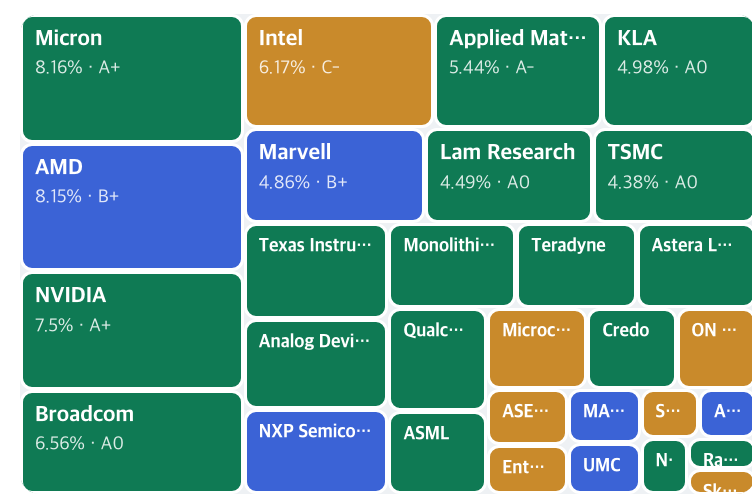
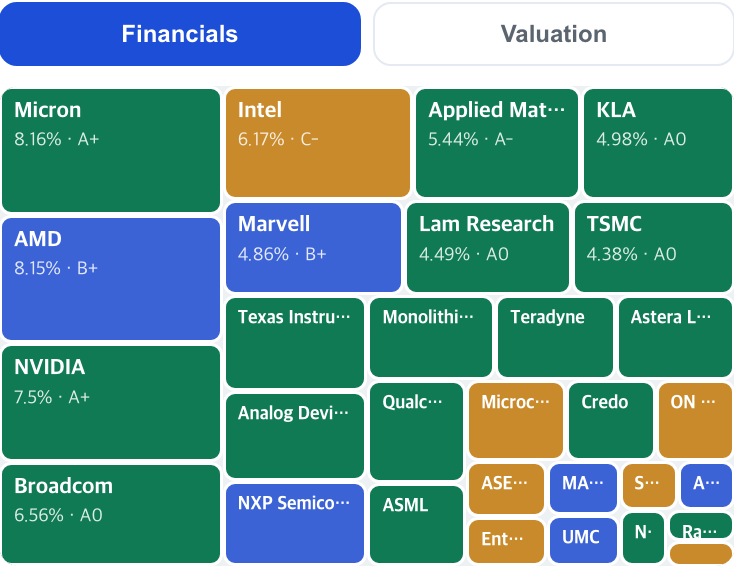
Centre the third image, fill the width, drop clipped tile labels
Three things the previous pass got wrong.

The full-pipeline treemap was cropped at x=112 when the page container measured
x=70, so it was off-centre in the direction opposite the other two. All three
crops now come from decoded pixel bounds rather than CSS arithmetic, and all
three fill their frame edge to edge.

All three now render at 100% width instead of 52%.

And the treemap kept showing a half-cut ticker on its smallest tile. That was
not the crop: a tile shorter than one line of text still rendered a label and
clipped it, which reads as a broken image. Both renderers now gate the label on
tile height rather than area — the clipping is vertical — so a tile too short
carries colour and area only. Skyworks at 5.09% height loses its label; Rambus
at 6.60% keeps it.

Claude-Session: https://claude.ai/code/session_01RnFF3deu9CNZQny2KjCfMg

diff --git a/examples/full/etf_SOXX.html b/examples/full/etf_SOXX.html
@@ -55,7 +55,7 @@
       <button id="hm-tab-fin" onclick="hmMode('fin')" style="flex:1;padding:8px 0;border-radius:9px;border:1px solid #1D4ED8;background:#1D4ED8;color:#fff;font-size:12px;font-weight:800;cursor:pointer;">Financials</button>
       <button id="hm-tab-val" onclick="hmMode('val')" style="flex:1;padding:8px 0;border-radius:9px;border:1px solid #E4E9F2;background:#fff;color:#5B6570;font-size:12px;font-weight:800;cursor:pointer;">Valuation</button>
     </div>
-    <div id="hm-map" style="position:relative;width:100%;height:240px;border-radius:10px;overflow:hidden;background:#EEF1F4;"><div class="hm-tile" data-i="0" data-name="Micron" data-w="8.16" data-fin="A+" data-val="B0" data-finbg="#0F7A54" data-fintx="#fff" data-valbg="#3B63D6" data-valtx="#fff" style="position:absolute;left:0.00%;top:0.00%;width:30.41%;height:26.87%;background:#0F7A54;color:#fff;padding:5px 6px;border:1.5px solid #fff;border-radius:6px;overflow:hidden;cursor:pointer;"><div style="font-size:11px;font-weight:800;line-height:1.2;overflow:hidden;text-overflow:ellipsis;white-space:nowrap;">Micron</div><div style="font-size:9.5px;opacity:.85;margin-top:2px;">8.16% · <span class="hm-g" data-i="0">A+</span></div></div><div class="hm-tile" data-i="1" data-name="AMD" data-w="8.15" data-fin="B+" data-val="C-" data-finbg="#3B63D6" data-fintx="#fff" data-valbg="#C98A2B" data-valtx="#fff" style="position:absolute;left:0.00%;top:26.87%;width:30.41%;height:26.84%;background:#3B63D6;color:#fff;padding:5px 6px;border:1.5px solid #fff;border-radius:6px;overflow:hidden;cursor:pointer;"><div style="font-size:11px;font-weight:800;line-height:1.2;overflow:hidden;text-overflow:ellipsis;white-space:nowrap;">AMD</div><div style="font-size:9.5px;opacity:.85;margin-top:2px;">8.15% · <span class="hm-g" data-i="1">B+</span></div></div><div class="hm-tile" data-i="2" data-name="NVIDIA" data-w="7.5" data-fin="A+" data-val="B0" data-finbg="#0F7A54" data-fintx="#fff" data-valbg="#3B63D6" data-valtx="#fff" style="position:absolute;left:0.00%;top:53.70%;width:30.41%;height:24.70%;background:#0F7A54;color:#fff;padding:5px 6px;border:1.5px solid #fff;border-radius:6px;overflow:hidden;cursor:pointer;"><div style="font-size:11px;font-weight:800;line-height:1.2;overflow:hidden;text-overflow:ellipsis;white-space:nowrap;">NVIDIA</div><div style="font-size:9.5px;opacity:.85;margin-top:2px;">7.5% · <span class="hm-g" data-i="2">A+</span></div></div><div class="hm-tile" data-i="3" data-name="Broadcom" data-w="6.56" data-fin="A0" data-val="B-" data-finbg="#0F7A54" data-fintx="#fff" data-valbg="#3B63D6" data-valtx="#fff" style="position:absolute;left:0.00%;top:78.40%;width:30.41%;height:21.60%;background:#0F7A54;color:#fff;padding:5px 6px;border:1.5px solid #fff;border-radius:6px;overflow:hidden;cursor:pointer;"><div style="font-size:11px;font-weight:800;line-height:1.2;overflow:hidden;text-overflow:ellipsis;white-space:nowrap;">Broadcom</div><div style="font-size:9.5px;opacity:.85;margin-top:2px;">6.56% · <span class="hm-g" data-i="3">A0</span></div></div><div class="hm-tile" data-i="4" data-name="Intel" data-w="6.17" data-fin="C-" data-val="C0" data-finbg="#C98A2B" data-fintx="#fff" data-valbg="#C98A2B" data-valtx="#fff" style="position:absolute;left:30.41%;top:0.00%;width:25.88%;height:23.87%;background:#C98A2B;color:#fff;padding:5px 6px;border:1.5px solid #fff;border-radius:6px;overflow:hidden;cursor:pointer;"><div style="font-size:11px;font-weight:800;line-height:1.2;overflow:hidden;text-overflow:ellipsis;white-space:nowrap;">Intel</div><div style="font-size:9.5px;opacity:.85;margin-top:2px;">6.17% · <span class="hm-g" data-i="4">C-</span></div></div><div class="hm-tile" data-i="5" data-name="Applied Materials" data-w="5.44" data-fin="A-" data-val="C+" data-finbg="#0F7A54" data-fintx="#fff" data-valbg="#C98A2B" data-valtx="#fff" style="position:absolute;left:56.29%;top:0.00%;width:22.82%;height:23.87%;background:#0F7A54;color:#fff;padding:5px 6px;border:1.5px solid #fff;border-radius:6px;overflow:hidden;cursor:pointer;"><div style="font-size:11px;font-weight:800;line-height:1.2;overflow:hidden;text-overflow:ellipsis;white-space:nowrap;">Applied Materia…</div><div style="font-size:9.5px;opacity:.85;margin-top:2px;">5.44% · <span class="hm-g" data-i="5">A-</span></div></div><div class="hm-tile" data-i="6" data-name="KLA" data-w="4.98" data-fin="A0" data-val="C+" data-finbg="#0F7A54" data-fintx="#fff" data-valbg="#C98A2B" data-valtx="#fff" style="position:absolute;left:79.11%;top:0.00%;width:20.89%;height:23.87%;background:#0F7A54;color:#fff;padding:5px 6px;border:1.5px solid #fff;border-radius:6px;overflow:hidden;cursor:pointer;"><div style="font-size:11px;font-weight:800;line-height:1.2;overflow:hidden;text-overflow:ellipsis;white-space:nowrap;">KLA</div><div style="font-size:9.5px;opacity:.85;margin-top:2px;">4.98% · <span class="hm-g" data-i="6">A0</span></div></div><div class="hm-tile" data-i="7" data-name="Marvell" data-w="4.86" data-fin="B+" data-val="C0" data-finbg="#3B63D6" data-fintx="#fff" data-valbg="#C98A2B" data-valtx="#fff" style="position:absolute;left:30.41%;top:23.87%;width:24.63%;height:19.76%;background:#3B63D6;color:#fff;padding:5px 6px;border:1.5px solid #fff;border-radius:6px;overflow:hidden;cursor:pointer;"><div style="font-size:11px;font-weight:800;line-height:1.2;overflow:hidden;text-overflow:ellipsis;white-space:nowrap;">Marvell</div><div style="font-size:9.5px;opacity:.85;margin-top:2px;">4.86% · <span class="hm-g" data-i="7">B+</span></div></div><div class="hm-tile" data-i="8" data-name="Lam Research" data-w="4.49" data-fin="A0" data-val="C+" data-finbg="#0F7A54" data-fintx="#fff" data-valbg="#C98A2B" data-valtx="#fff" style="position:absolute;left:55.04%;top:23.87%;width:22.76%;height:19.76%;background:#0F7A54;color:#fff;padding:5px 6px;border:1.5px solid #fff;border-radius:6px;overflow:hidden;cursor:pointer;"><div style="font-size:11px;font-weight:800;line-height:1.2;overflow:hidden;text-overflow:ellipsis;white-space:nowrap;">Lam Research</div><div style="font-size:9.5px;opacity:.85;margin-top:2px;">4.49% · <span class="hm-g" data-i="8">A0</span></div></div><div class="hm-tile" data-i="9" data-name="TSMC" data-w="4.38" data-fin="A0" data-val="B+" data-finbg="#0F7A54" data-fintx="#fff" data-valbg="#3B63D6" data-valtx="#fff" style="position:absolute;left:77.80%;top:23.87%;width:22.20%;height:19.76%;background:#0F7A54;color:#fff;padding:5px 6px;border:1.5px solid #fff;border-radius:6px;overflow:hidden;cursor:pointer;"><div style="font-size:11px;font-weight:800;line-height:1.2;overflow:hidden;text-overflow:ellipsis;white-space:nowrap;">TSMC</div><div style="font-size:9.5px;opacity:.85;margin-top:2px;">4.38% · <span class="hm-g" data-i="9">A0</span></div></div><div class="hm-tile" data-i="10" data-name="Texas Instruments" data-w="3.9" data-fin="A-" data-val="C+" data-finbg="#0F7A54" data-fintx="#fff" data-valbg="#C98A2B" data-valtx="#fff" style="position:absolute;left:30.41%;top:43.63%;width:19.65%;height:19.88%;background:#0F7A54;color:#fff;padding:5px 6px;border:1.5px solid #fff;border-radius:6px;overflow:hidden;cursor:pointer;"><div style="font-size:9px;font-weight:800;line-height:1.2;overflow:hidden;text-overflow:ellipsis;white-space:nowrap;">Texas Instrumen…</div></div><div class="hm-tile" data-i="11" data-name="Analog Devices" data-w="3.7" data-fin="A-" data-val="B-" data-finbg="#0F7A54" data-fintx="#fff" data-valbg="#3B63D6" data-valtx="#fff" style="position:absolute;left:30.41%;top:63.51%;width:19.65%;height:18.86%;background:#0F7A54;color:#fff;padding:5px 6px;border:1.5px solid #fff;border-radius:6px;overflow:hidden;cursor:pointer;"><div style="font-size:9px;font-weight:800;line-height:1.2;overflow:hidden;text-overflow:ellipsis;white-space:nowrap;">Analog Devices</div></div><div class="hm-tile" data-i="12" data-name="NXP Semiconductors" data-w="3.46" data-fin="B+" data-val="B+" data-finbg="#3B63D6" data-fintx="#fff" data-valbg="#3B63D6" data-valtx="#fff" style="position:absolute;left:30.41%;top:82.37%;width:19.65%;height:17.63%;background:#3B63D6;color:#fff;padding:5px 6px;border:1.5px solid #fff;border-radius:6px;overflow:hidden;cursor:pointer;"><div style="font-size:9px;font-weight:800;line-height:1.2;overflow:hidden;text-overflow:ellipsis;white-space:nowrap;">NXP Semiconduct…</div></div><div class="hm-tile" data-i="13" data-name="Monolithic Power Systems" data-w="3.08" data-fin="A0" data-val="C0" data-finbg="#0F7A54" data-fintx="#fff" data-valbg="#C98A2B" data-valtx="#fff" style="position:absolute;left:50.06%;top:43.63%;width:17.36%;height:17.77%;background:#0F7A54;color:#fff;padding:5px 6px;border:1.5px solid #fff;border-radius:6px;overflow:hidden;cursor:pointer;"><div style="font-size:9px;font-weight:800;line-height:1.2;overflow:hidden;text-overflow:ellipsis;white-space:nowrap;">Monolithic Power</div></div><div class="hm-tile" data-i="14" data-name="Teradyne" data-w="2.9" data-fin="A0" data-val="C+" data-finbg="#0F7A54" data-fintx="#fff" data-valbg="#C98A2B" data-valtx="#fff" style="position:absolute;left:67.42%;top:43.63%;width:16.35%;height:17.77%;background:#0F7A54;color:#fff;padding:5px 6px;border:1.5px solid #fff;border-radius:6px;overflow:hidden;cursor:pointer;"><div style="font-size:9px;font-weight:800;line-height:1.2;overflow:hidden;text-overflow:ellipsis;white-space:nowrap;">Teradyne</div></div><div class="hm-tile" data-i="15" data-name="Astera Labs" data-w="2.88" data-fin="A-" data-val="analysis limited" data-finbg="#0F7A54" data-fintx="#fff" data-valbg="#C7CDD4" data-valtx="#5B6570" style="position:absolute;left:83.77%;top:43.63%;width:16.23%;height:17.77%;background:#0F7A54;color:#fff;padding:5px 6px;border:1.5px solid #fff;border-radius:6px;overflow:hidden;cursor:pointer;"><div style="font-size:9px;font-weight:800;line-height:1.2;overflow:hidden;text-overflow:ellipsis;white-space:nowrap;">Astera Labs</div></div><div class="hm-tile" data-i="16" data-name="Qualcomm" data-w="2.85" data-fin="A-" data-val="analysis limited" data-finbg="#0F7A54" data-fintx="#fff" data-valbg="#C7CDD4" data-valtx="#5B6570" style="position:absolute;left:50.06%;top:61.40%;width:13.41%;height:21.28%;background:#0F7A54;color:#fff;padding:5px 6px;border:1.5px solid #fff;border-radius:6px;overflow:hidden;cursor:pointer;"><div style="font-size:9px;font-weight:800;line-height:1.2;overflow:hidden;text-overflow:ellipsis;white-space:nowrap;">Qualcomm</div></div><div class="hm-tile" data-i="17" data-name="ASML" data-w="2.32" data-fin="A0" data-val="analysis limited" data-finbg="#0F7A54" data-fintx="#fff" data-valbg="#C7CDD4" data-valtx="#5B6570" style="position:absolute;left:50.06%;top:82.68%;width:13.41%;height:17.32%;background:#0F7A54;color:#fff;padding:5px 6px;border:1.5px solid #fff;border-radius:6px;overflow:hidden;cursor:pointer;"><div style="font-size:9px;font-weight:800;line-height:1.2;overflow:hidden;text-overflow:ellipsis;white-space:nowrap;">ASML</div></div><div class="hm-tile" data-i="18" data-name="Microchip" data-w="2.27" data-fin="C+" data-val="analysis limited" data-finbg="#C98A2B" data-fintx="#fff" data-valbg="#C7CDD4" data-valtx="#5B6570" style="position:absolute;left:63.47%;top:61.40%;width:13.62%;height:16.70%;background:#C98A2B;color:#fff;padding:5px 6px;border:1.5px solid #fff;border-radius:6px;overflow:hidden;cursor:pointer;"><div style="font-size:9px;font-weight:800;line-height:1.2;overflow:hidden;text-overflow:ellipsis;white-space:nowrap;">Microchip</div></div><div class="hm-tile" data-i="19" data-name="Credo" data-w="2.02" data-fin="A0" data-val="analysis limited" data-finbg="#0F7A54" data-fintx="#fff" data-valbg="#C7CDD4" data-valtx="#5B6570" style="position:absolute;left:77.09%;top:61.40%;width:12.12%;height:16.70%;background:#0F7A54;color:#fff;padding:5px 6px;border:1.5px solid #fff;border-radius:6px;overflow:hidden;cursor:pointer;"><div style="font-size:9px;font-weight:800;line-height:1.2;overflow:hidden;text-overflow:ellipsis;white-space:nowrap;">Credo</div></div><div class="hm-tile" data-i="20" data-name="ON Semiconductor" data-w="1.8" data-fin="C+" data-val="analysis limited" data-finbg="#C98A2B" data-fintx="#fff" data-valbg="#C7CDD4" data-valtx="#5B6570" style="position:absolute;left:89.20%;top:61.40%;width:10.80%;height:16.70%;background:#C98A2B;color:#fff;padding:5px 6px;border:1.5px solid #fff;border-radius:6px;overflow:hidden;cursor:pointer;"><div style="font-size:9px;font-weight:800;line-height:1.2;overflow:hidden;text-overflow:ellipsis;white-space:nowrap;">ON Semiconductor</div></div><div class="hm-tile" data-i="21" data-name="ASE Technology" data-w="1.28" data-fin="C+" data-val="analysis limited" data-finbg="#C98A2B" data-fintx="#fff" data-valbg="#C7CDD4" data-valtx="#5B6570" style="position:absolute;left:63.47%;top:78.09%;width:10.97%;height:11.68%;background:#C98A2B;color:#fff;padding:5px 6px;border:1.5px solid #fff;border-radius:6px;overflow:hidden;cursor:pointer;"><div style="font-size:9px;font-weight:800;line-height:1.2;overflow:hidden;text-overflow:ellipsis;white-space:nowrap;">ASE Technology</div></div><div class="hm-tile" data-i="22" data-name="Entegris" data-w="1.12" data-fin="C+" data-val="analysis limited" data-finbg="#C98A2B" data-fintx="#fff" data-valbg="#C7CDD4" data-valtx="#5B6570" style="position:absolute;left:63.47%;top:89.78%;width:10.97%;height:10.22%;background:#C98A2B;color:#fff;padding:5px 6px;border:1.5px solid #fff;border-radius:6px;overflow:hidden;cursor:pointer;"><div style="font-size:9px;font-weight:800;line-height:1.2;overflow:hidden;text-overflow:ellipsis;white-space:nowrap;">Entegris</div></div><div class="hm-tile" data-i="23" data-name="MACOM" data-w="1.12" data-fin="B+" data-val="analysis limited" data-finbg="#3B63D6" data-fintx="#fff" data-valbg="#C7CDD4" data-valtx="#5B6570" style="position:absolute;left:74.45%;top:78.09%;width:9.87%;height:11.36%;background:#3B63D6;color:#fff;padding:5px 6px;border:1.5px solid #fff;border-radius:6px;overflow:hidden;cursor:pointer;"><div style="font-size:9px;font-weight:800;line-height:1.2;overflow:hidden;text-overflow:ellipsis;white-space:nowrap;">MACOM</div></div><div class="hm-tile" data-i="24" data-name="United Microelectronics" data-w="1.04" data-fin="B-" data-val="analysis limited" data-finbg="#3B63D6" data-fintx="#fff" data-valbg="#C7CDD4" data-valtx="#5B6570" style="position:absolute;left:74.45%;top:89.45%;width:9.87%;height:10.55%;background:#3B63D6;color:#fff;padding:5px 6px;border:1.5px solid #fff;border-radius:6px;overflow:hidden;cursor:pointer;"><div style="font-size:9px;font-weight:800;line-height:1.2;overflow:hidden;text-overflow:ellipsis;white-space:nowrap;">UMC</div></div><div class="hm-tile" data-i="25" data-name="STMicroelectronics" data-w="0.81" data-fin="C-" data-val="analysis limited" data-finbg="#C98A2B" data-fintx="#fff" data-valbg="#C7CDD4" data-valtx="#5B6570" style="position:absolute;left:84.32%;top:78.09%;width:7.94%;height:10.22%;background:#C98A2B;color:#fff;padding:5px 6px;border:1.5px solid #fff;border-radius:6px;overflow:hidden;cursor:pointer;"><div style="font-size:9px;font-weight:800;line-height:1.2;overflow:hidden;text-overflow:ellipsis;white-space:nowrap;">STMicroelectron…</div></div><div class="hm-tile" data-i="26" data-name="Arm" data-w="0.79" data-fin="B+" data-val="analysis limited" data-finbg="#3B63D6" data-fintx="#fff" data-valbg="#C7CDD4" data-valtx="#5B6570" style="position:absolute;left:92.26%;top:78.09%;width:7.74%;height:10.22%;background:#3B63D6;color:#fff;padding:5px 6px;border:1.5px solid #fff;border-radius:6px;overflow:hidden;cursor:pointer;"><div style="font-size:9px;font-weight:800;line-height:1.2;overflow:hidden;text-overflow:ellipsis;white-space:nowrap;">Arm</div></div><div class="hm-tile" data-i="27" data-name="Nova" data-w="0.75" data-fin="A-" data-val="analysis limited" data-finbg="#0F7A54" data-fintx="#fff" data-valbg="#C7CDD4" data-valtx="#5B6570" style="position:absolute;left:84.32%;top:88.31%;width:6.43%;height:11.69%;background:#0F7A54;color:#fff;padding:5px 6px;border:1.5px solid #fff;border-radius:6px;overflow:hidden;cursor:pointer;"><div style="font-size:9px;font-weight:800;line-height:1.2;overflow:hidden;text-overflow:ellipsis;white-space:nowrap;">Nova</div></div><div class="hm-tile" data-i="28" data-name="Rambus" data-w="0.61" data-fin="A-" data-val="analysis limited" data-finbg="#0F7A54" data-fintx="#fff" data-valbg="#C7CDD4" data-valtx="#5B6570" style="position:absolute;left:90.75%;top:88.31%;width:9.25%;height:6.60%;background:#0F7A54;color:#fff;padding:5px 6px;border:1.5px solid #fff;border-radius:6px;overflow:hidden;cursor:pointer;"><div style="font-size:9px;font-weight:800;line-height:1.2;overflow:hidden;text-overflow:ellipsis;white-space:nowrap;">Rambus</div></div><div class="hm-tile" data-i="29" data-name="Skyworks" data-w="0.47" data-fin="C+" data-val="analysis limited" data-finbg="#C98A2B" data-fintx="#fff" data-valbg="#C7CDD4" data-valtx="#5B6570" style="position:absolute;left:90.75%;top:94.91%;width:9.25%;height:5.09%;background:#C98A2B;color:#fff;padding:5px 6px;border:1.5px solid #fff;border-radius:6px;overflow:hidden;cursor:pointer;"><div style="font-size:9px;font-weight:800;line-height:1.2;overflow:hidden;text-overflow:ellipsis;white-space:nowrap;">Skyworks</div></div></div>
+    <div id="hm-map" style="position:relative;width:100%;height:240px;border-radius:10px;overflow:hidden;background:#EEF1F4;"><div class="hm-tile" data-i="0" data-name="Micron" data-w="8.16" data-fin="A+" data-val="B0" data-finbg="#0F7A54" data-fintx="#fff" data-valbg="#3B63D6" data-valtx="#fff" style="position:absolute;left:0.00%;top:0.00%;width:30.41%;height:26.87%;background:#0F7A54;color:#fff;padding:5px 6px;border:1.5px solid #fff;border-radius:6px;overflow:hidden;cursor:pointer;"><div style="font-size:11px;font-weight:800;line-height:1.2;overflow:hidden;text-overflow:ellipsis;white-space:nowrap;">Micron</div><div style="font-size:9.5px;opacity:.85;margin-top:2px;">8.16% · <span class="hm-g" data-i="0">A+</span></div></div><div class="hm-tile" data-i="1" data-name="AMD" data-w="8.15" data-fin="B+" data-val="C-" data-finbg="#3B63D6" data-fintx="#fff" data-valbg="#C98A2B" data-valtx="#fff" style="position:absolute;left:0.00%;top:26.87%;width:30.41%;height:26.84%;background:#3B63D6;color:#fff;padding:5px 6px;border:1.5px solid #fff;border-radius:6px;overflow:hidden;cursor:pointer;"><div style="font-size:11px;font-weight:800;line-height:1.2;overflow:hidden;text-overflow:ellipsis;white-space:nowrap;">AMD</div><div style="font-size:9.5px;opacity:.85;margin-top:2px;">8.15% · <span class="hm-g" data-i="1">B+</span></div></div><div class="hm-tile" data-i="2" data-name="NVIDIA" data-w="7.5" data-fin="A+" data-val="B0" data-finbg="#0F7A54" data-fintx="#fff" data-valbg="#3B63D6" data-valtx="#fff" style="position:absolute;left:0.00%;top:53.70%;width:30.41%;height:24.70%;background:#0F7A54;color:#fff;padding:5px 6px;border:1.5px solid #fff;border-radius:6px;overflow:hidden;cursor:pointer;"><div style="font-size:11px;font-weight:800;line-height:1.2;overflow:hidden;text-overflow:ellipsis;white-space:nowrap;">NVIDIA</div><div style="font-size:9.5px;opacity:.85;margin-top:2px;">7.5% · <span class="hm-g" data-i="2">A+</span></div></div><div class="hm-tile" data-i="3" data-name="Broadcom" data-w="6.56" data-fin="A0" data-val="B-" data-finbg="#0F7A54" data-fintx="#fff" data-valbg="#3B63D6" data-valtx="#fff" style="position:absolute;left:0.00%;top:78.40%;width:30.41%;height:21.60%;background:#0F7A54;color:#fff;padding:5px 6px;border:1.5px solid #fff;border-radius:6px;overflow:hidden;cursor:pointer;"><div style="font-size:11px;font-weight:800;line-height:1.2;overflow:hidden;text-overflow:ellipsis;white-space:nowrap;">Broadcom</div><div style="font-size:9.5px;opacity:.85;margin-top:2px;">6.56% · <span class="hm-g" data-i="3">A0</span></div></div><div class="hm-tile" data-i="4" data-name="Intel" data-w="6.17" data-fin="C-" data-val="C0" data-finbg="#C98A2B" data-fintx="#fff" data-valbg="#C98A2B" data-valtx="#fff" style="position:absolute;left:30.41%;top:0.00%;width:25.88%;height:23.87%;background:#C98A2B;color:#fff;padding:5px 6px;border:1.5px solid #fff;border-radius:6px;overflow:hidden;cursor:pointer;"><div style="font-size:11px;font-weight:800;line-height:1.2;overflow:hidden;text-overflow:ellipsis;white-space:nowrap;">Intel</div><div style="font-size:9.5px;opacity:.85;margin-top:2px;">6.17% · <span class="hm-g" data-i="4">C-</span></div></div><div class="hm-tile" data-i="5" data-name="Applied Materials" data-w="5.44" data-fin="A-" data-val="C+" data-finbg="#0F7A54" data-fintx="#fff" data-valbg="#C98A2B" data-valtx="#fff" style="position:absolute;left:56.29%;top:0.00%;width:22.82%;height:23.87%;background:#0F7A54;color:#fff;padding:5px 6px;border:1.5px solid #fff;border-radius:6px;overflow:hidden;cursor:pointer;"><div style="font-size:11px;font-weight:800;line-height:1.2;overflow:hidden;text-overflow:ellipsis;white-space:nowrap;">Applied Materia…</div><div style="font-size:9.5px;opacity:.85;margin-top:2px;">5.44% · <span class="hm-g" data-i="5">A-</span></div></div><div class="hm-tile" data-i="6" data-name="KLA" data-w="4.98" data-fin="A0" data-val="C+" data-finbg="#0F7A54" data-fintx="#fff" data-valbg="#C98A2B" data-valtx="#fff" style="position:absolute;left:79.11%;top:0.00%;width:20.89%;height:23.87%;background:#0F7A54;color:#fff;padding:5px 6px;border:1.5px solid #fff;border-radius:6px;overflow:hidden;cursor:pointer;"><div style="font-size:11px;font-weight:800;line-height:1.2;overflow:hidden;text-overflow:ellipsis;white-space:nowrap;">KLA</div><div style="font-size:9.5px;opacity:.85;margin-top:2px;">4.98% · <span class="hm-g" data-i="6">A0</span></div></div><div class="hm-tile" data-i="7" data-name="Marvell" data-w="4.86" data-fin="B+" data-val="C0" data-finbg="#3B63D6" data-fintx="#fff" data-valbg="#C98A2B" data-valtx="#fff" style="position:absolute;left:30.41%;top:23.87%;width:24.63%;height:19.76%;background:#3B63D6;color:#fff;padding:5px 6px;border:1.5px solid #fff;border-radius:6px;overflow:hidden;cursor:pointer;"><div style="font-size:11px;font-weight:800;line-height:1.2;overflow:hidden;text-overflow:ellipsis;white-space:nowrap;">Marvell</div><div style="font-size:9.5px;opacity:.85;margin-top:2px;">4.86% · <span class="hm-g" data-i="7">B+</span></div></div><div class="hm-tile" data-i="8" data-name="Lam Research" data-w="4.49" data-fin="A0" data-val="C+" data-finbg="#0F7A54" data-fintx="#fff" data-valbg="#C98A2B" data-valtx="#fff" style="position:absolute;left:55.04%;top:23.87%;width:22.76%;height:19.76%;background:#0F7A54;color:#fff;padding:5px 6px;border:1.5px solid #fff;border-radius:6px;overflow:hidden;cursor:pointer;"><div style="font-size:11px;font-weight:800;line-height:1.2;overflow:hidden;text-overflow:ellipsis;white-space:nowrap;">Lam Research</div><div style="font-size:9.5px;opacity:.85;margin-top:2px;">4.49% · <span class="hm-g" data-i="8">A0</span></div></div><div class="hm-tile" data-i="9" data-name="TSMC" data-w="4.38" data-fin="A0" data-val="B+" data-finbg="#0F7A54" data-fintx="#fff" data-valbg="#3B63D6" data-valtx="#fff" style="position:absolute;left:77.80%;top:23.87%;width:22.20%;height:19.76%;background:#0F7A54;color:#fff;padding:5px 6px;border:1.5px solid #fff;border-radius:6px;overflow:hidden;cursor:pointer;"><div style="font-size:11px;font-weight:800;line-height:1.2;overflow:hidden;text-overflow:ellipsis;white-space:nowrap;">TSMC</div><div style="font-size:9.5px;opacity:.85;margin-top:2px;">4.38% · <span class="hm-g" data-i="9">A0</span></div></div><div class="hm-tile" data-i="10" data-name="Texas Instruments" data-w="3.9" data-fin="A-" data-val="C+" data-finbg="#0F7A54" data-fintx="#fff" data-valbg="#C98A2B" data-valtx="#fff" style="position:absolute;left:30.41%;top:43.63%;width:19.65%;height:19.88%;background:#0F7A54;color:#fff;padding:5px 6px;border:1.5px solid #fff;border-radius:6px;overflow:hidden;cursor:pointer;"><div style="font-size:9px;font-weight:800;line-height:1.2;overflow:hidden;text-overflow:ellipsis;white-space:nowrap;">Texas Instrumen…</div></div><div class="hm-tile" data-i="11" data-name="Analog Devices" data-w="3.7" data-fin="A-" data-val="B-" data-finbg="#0F7A54" data-fintx="#fff" data-valbg="#3B63D6" data-valtx="#fff" style="position:absolute;left:30.41%;top:63.51%;width:19.65%;height:18.86%;background:#0F7A54;color:#fff;padding:5px 6px;border:1.5px solid #fff;border-radius:6px;overflow:hidden;cursor:pointer;"><div style="font-size:9px;font-weight:800;line-height:1.2;overflow:hidden;text-overflow:ellipsis;white-space:nowrap;">Analog Devices</div></div><div class="hm-tile" data-i="12" data-name="NXP Semiconductors" data-w="3.46" data-fin="B+" data-val="B+" data-finbg="#3B63D6" data-fintx="#fff" data-valbg="#3B63D6" data-valtx="#fff" style="position:absolute;left:30.41%;top:82.37%;width:19.65%;height:17.63%;background:#3B63D6;color:#fff;padding:5px 6px;border:1.5px solid #fff;border-radius:6px;overflow:hidden;cursor:pointer;"><div style="font-size:9px;font-weight:800;line-height:1.2;overflow:hidden;text-overflow:ellipsis;white-space:nowrap;">NXP Semiconduct…</div></div><div class="hm-tile" data-i="13" data-name="Monolithic Power Systems" data-w="3.08" data-fin="A0" data-val="C0" data-finbg="#0F7A54" data-fintx="#fff" data-valbg="#C98A2B" data-valtx="#fff" style="position:absolute;left:50.06%;top:43.63%;width:17.36%;height:17.77%;background:#0F7A54;color:#fff;padding:5px 6px;border:1.5px solid #fff;border-radius:6px;overflow:hidden;cursor:pointer;"><div style="font-size:9px;font-weight:800;line-height:1.2;overflow:hidden;text-overflow:ellipsis;white-space:nowrap;">Monolithic Power</div></div><div class="hm-tile" data-i="14" data-name="Teradyne" data-w="2.9" data-fin="A0" data-val="C+" data-finbg="#0F7A54" data-fintx="#fff" data-valbg="#C98A2B" data-valtx="#fff" style="position:absolute;left:67.42%;top:43.63%;width:16.35%;height:17.77%;background:#0F7A54;color:#fff;padding:5px 6px;border:1.5px solid #fff;border-radius:6px;overflow:hidden;cursor:pointer;"><div style="font-size:9px;font-weight:800;line-height:1.2;overflow:hidden;text-overflow:ellipsis;white-space:nowrap;">Teradyne</div></div><div class="hm-tile" data-i="15" data-name="Astera Labs" data-w="2.88" data-fin="A-" data-val="analysis limited" data-finbg="#0F7A54" data-fintx="#fff" data-valbg="#C7CDD4" data-valtx="#5B6570" style="position:absolute;left:83.77%;top:43.63%;width:16.23%;height:17.77%;background:#0F7A54;color:#fff;padding:5px 6px;border:1.5px solid #fff;border-radius:6px;overflow:hidden;cursor:pointer;"><div style="font-size:9px;font-weight:800;line-height:1.2;overflow:hidden;text-overflow:ellipsis;white-space:nowrap;">Astera Labs</div></div><div class="hm-tile" data-i="16" data-name="Qualcomm" data-w="2.85" data-fin="A-" data-val="analysis limited" data-finbg="#0F7A54" data-fintx="#fff" data-valbg="#C7CDD4" data-valtx="#5B6570" style="position:absolute;left:50.06%;top:61.40%;width:13.41%;height:21.28%;background:#0F7A54;color:#fff;padding:5px 6px;border:1.5px solid #fff;border-radius:6px;overflow:hidden;cursor:pointer;"><div style="font-size:9px;font-weight:800;line-height:1.2;overflow:hidden;text-overflow:ellipsis;white-space:nowrap;">Qualcomm</div></div><div class="hm-tile" data-i="17" data-name="ASML" data-w="2.32" data-fin="A0" data-val="analysis limited" data-finbg="#0F7A54" data-fintx="#fff" data-valbg="#C7CDD4" data-valtx="#5B6570" style="position:absolute;left:50.06%;top:82.68%;width:13.41%;height:17.32%;background:#0F7A54;color:#fff;padding:5px 6px;border:1.5px solid #fff;border-radius:6px;overflow:hidden;cursor:pointer;"><div style="font-size:9px;font-weight:800;line-height:1.2;overflow:hidden;text-overflow:ellipsis;white-space:nowrap;">ASML</div></div><div class="hm-tile" data-i="18" data-name="Microchip" data-w="2.27" data-fin="C+" data-val="analysis limited" data-finbg="#C98A2B" data-fintx="#fff" data-valbg="#C7CDD4" data-valtx="#5B6570" style="position:absolute;left:63.47%;top:61.40%;width:13.62%;height:16.70%;background:#C98A2B;color:#fff;padding:5px 6px;border:1.5px solid #fff;border-radius:6px;overflow:hidden;cursor:pointer;"><div style="font-size:9px;font-weight:800;line-height:1.2;overflow:hidden;text-overflow:ellipsis;white-space:nowrap;">Microchip</div></div><div class="hm-tile" data-i="19" data-name="Credo" data-w="2.02" data-fin="A0" data-val="analysis limited" data-finbg="#0F7A54" data-fintx="#fff" data-valbg="#C7CDD4" data-valtx="#5B6570" style="position:absolute;left:77.09%;top:61.40%;width:12.12%;height:16.70%;background:#0F7A54;color:#fff;padding:5px 6px;border:1.5px solid #fff;border-radius:6px;overflow:hidden;cursor:pointer;"><div style="font-size:9px;font-weight:800;line-height:1.2;overflow:hidden;text-overflow:ellipsis;white-space:nowrap;">Credo</div></div><div class="hm-tile" data-i="20" data-name="ON Semiconductor" data-w="1.8" data-fin="C+" data-val="analysis limited" data-finbg="#C98A2B" data-fintx="#fff" data-valbg="#C7CDD4" data-valtx="#5B6570" style="position:absolute;left:89.20%;top:61.40%;width:10.80%;height:16.70%;background:#C98A2B;color:#fff;padding:5px 6px;border:1.5px solid #fff;border-radius:6px;overflow:hidden;cursor:pointer;"><div style="font-size:9px;font-weight:800;line-height:1.2;overflow:hidden;text-overflow:ellipsis;white-space:nowrap;">ON Semiconductor</div></div><div class="hm-tile" data-i="21" data-name="ASE Technology" data-w="1.28" data-fin="C+" data-val="analysis limited" data-finbg="#C98A2B" data-fintx="#fff" data-valbg="#C7CDD4" data-valtx="#5B6570" style="position:absolute;left:63.47%;top:78.09%;width:10.97%;height:11.68%;background:#C98A2B;color:#fff;padding:5px 6px;border:1.5px solid #fff;border-radius:6px;overflow:hidden;cursor:pointer;"><div style="font-size:9px;font-weight:800;line-height:1.2;overflow:hidden;text-overflow:ellipsis;white-space:nowrap;">ASE Technology</div></div><div class="hm-tile" data-i="22" data-name="Entegris" data-w="1.12" data-fin="C+" data-val="analysis limited" data-finbg="#C98A2B" data-fintx="#fff" data-valbg="#C7CDD4" data-valtx="#5B6570" style="position:absolute;left:63.47%;top:89.78%;width:10.97%;height:10.22%;background:#C98A2B;color:#fff;padding:5px 6px;border:1.5px solid #fff;border-radius:6px;overflow:hidden;cursor:pointer;"><div style="font-size:9px;font-weight:800;line-height:1.2;overflow:hidden;text-overflow:ellipsis;white-space:nowrap;">Entegris</div></div><div class="hm-tile" data-i="23" data-name="MACOM" data-w="1.12" data-fin="B+" data-val="analysis limited" data-finbg="#3B63D6" data-fintx="#fff" data-valbg="#C7CDD4" data-valtx="#5B6570" style="position:absolute;left:74.45%;top:78.09%;width:9.87%;height:11.36%;background:#3B63D6;color:#fff;padding:5px 6px;border:1.5px solid #fff;border-radius:6px;overflow:hidden;cursor:pointer;"><div style="font-size:9px;font-weight:800;line-height:1.2;overflow:hidden;text-overflow:ellipsis;white-space:nowrap;">MACOM</div></div><div class="hm-tile" data-i="24" data-name="United Microelectronics" data-w="1.04" data-fin="B-" data-val="analysis limited" data-finbg="#3B63D6" data-fintx="#fff" data-valbg="#C7CDD4" data-valtx="#5B6570" style="position:absolute;left:74.45%;top:89.45%;width:9.87%;height:10.55%;background:#3B63D6;color:#fff;padding:5px 6px;border:1.5px solid #fff;border-radius:6px;overflow:hidden;cursor:pointer;"><div style="font-size:9px;font-weight:800;line-height:1.2;overflow:hidden;text-overflow:ellipsis;white-space:nowrap;">UMC</div></div><div class="hm-tile" data-i="25" data-name="STMicroelectronics" data-w="0.81" data-fin="C-" data-val="analysis limited" data-finbg="#C98A2B" data-fintx="#fff" data-valbg="#C7CDD4" data-valtx="#5B6570" style="position:absolute;left:84.32%;top:78.09%;width:7.94%;height:10.22%;background:#C98A2B;color:#fff;padding:5px 6px;border:1.5px solid #fff;border-radius:6px;overflow:hidden;cursor:pointer;"><div style="font-size:9px;font-weight:800;line-height:1.2;overflow:hidden;text-overflow:ellipsis;white-space:nowrap;">STMicroelectron…</div></div><div class="hm-tile" data-i="26" data-name="Arm" data-w="0.79" data-fin="B+" data-val="analysis limited" data-finbg="#3B63D6" data-fintx="#fff" data-valbg="#C7CDD4" data-valtx="#5B6570" style="position:absolute;left:92.26%;top:78.09%;width:7.74%;height:10.22%;background:#3B63D6;color:#fff;padding:5px 6px;border:1.5px solid #fff;border-radius:6px;overflow:hidden;cursor:pointer;"><div style="font-size:9px;font-weight:800;line-height:1.2;overflow:hidden;text-overflow:ellipsis;white-space:nowrap;">Arm</div></div><div class="hm-tile" data-i="27" data-name="Nova" data-w="0.75" data-fin="A-" data-val="analysis limited" data-finbg="#0F7A54" data-fintx="#fff" data-valbg="#C7CDD4" data-valtx="#5B6570" style="position:absolute;left:84.32%;top:88.31%;width:6.43%;height:11.69%;background:#0F7A54;color:#fff;padding:5px 6px;border:1.5px solid #fff;border-radius:6px;overflow:hidden;cursor:pointer;"><div style="font-size:9px;font-weight:800;line-height:1.2;overflow:hidden;text-overflow:ellipsis;white-space:nowrap;">Nova</div></div><div class="hm-tile" data-i="28" data-name="Rambus" data-w="0.61" data-fin="A-" data-val="analysis limited" data-finbg="#0F7A54" data-fintx="#fff" data-valbg="#C7CDD4" data-valtx="#5B6570" style="position:absolute;left:90.75%;top:88.31%;width:9.25%;height:6.60%;background:#0F7A54;color:#fff;padding:5px 6px;border:1.5px solid #fff;border-radius:6px;overflow:hidden;cursor:pointer;"><div style="font-size:9px;font-weight:800;line-height:1.2;overflow:hidden;text-overflow:ellipsis;white-space:nowrap;">Rambus</div></div><div class="hm-tile" data-i="29" data-name="Skyworks" data-w="0.47" data-fin="C+" data-val="analysis limited" data-finbg="#C98A2B" data-fintx="#fff" data-valbg="#C7CDD4" data-valtx="#5B6570" style="position:absolute;left:90.75%;top:94.91%;width:9.25%;height:5.09%;background:#C98A2B;color:#fff;padding:5px 6px;border:1.5px solid #fff;border-radius:6px;overflow:hidden;cursor:pointer;"><div style="font-size:9px;font-weight:800;line-height:1.2;overflow:hidden;text-overflow:ellipsis;white-space:nowrap;"></div></div></div>
     <div id="hm-sel" style="display:flex;align-items:center;gap:8px;margin-top:10px;border:1px solid #EDF0F3;border-radius:10px;padding:9px 12px;">
       <span id="hm-sel-name" style="flex:1;font-size:12px;font-weight:800;">Tap a holding</span>
       <span id="hm-sel-w" style="font-size:11px;color:#8A929C;font-weight:700;"></span>

diff --git a/tools/render.py b/tools/render.py
@@ -268,9 +268,14 @@ def render_etf(pg):
     for i, (rx, ry, rw, rh, h1) in enumerate(rects):
         ffg = heat_col(h1.get("financial_grade"))
         vfg = heat_col(h1.get("valuation_grade"))
-        big = rw * rh > 400  # two-line labels on large tiles only
+        big = rw * rh > 400   # two-line labels on large tiles only
+        # A tile shorter than one line of text renders a clipped fragment, which
+        # reads as a broken image. Below this it carries colour and area only.
+        # Gate on height, not area: the clipping is vertical.
+        named = rh > 6.0
         label = (f'<div style="font-size:{11 if big else 9}px;font-weight:800;line-height:1.2;'
-                 f'overflow:hidden;text-overflow:ellipsis;white-space:nowrap;">{e(h1.get("short_name") or h1["name"])}</div>'
+                 f'overflow:hidden;text-overflow:ellipsis;white-space:nowrap;">'
+                 f'{e(h1.get("short_name") or h1["name"]) if named else ""}</div>'
                  + (f'<div style="font-size:9.5px;opacity:.85;margin-top:2px;">{e(h1.get("weight_pct"))}% · <span class="hm-g" data-i="{i}">{gtxt(h1.get("financial_grade"))}</span></div>' if big else ""))
         tiles += (f'<div class="hm-tile" data-i="{i}" data-name="{e(h1["name"])}" data-w="{e(h1.get("weight_pct"))}"'
                   f' data-fin="{gtxt(h1.get("financial_grade"))}" data-val="{gtxt(h1.get("valuation_grade"))}"'

diff --git a/tools/render_scan.py b/tools/render_scan.py
@@ -112,11 +112,13 @@ def page(t, r, gate, meta):
     for (rx, ry, rw, rh), h in squarify(sorted(hs, key=lambda p: -p[0]), 0, 0, 100, 100):
         hb, hf, _ = band(h["score"])
         big = rw * rh > 300
+        named = rh > 6.0   # shorter than one line of text; a label would only clip
         tiles += (f'<div style="position:absolute;left:{rx:.2f}%;top:{ry:.2f}%;'
                   f'width:{rw:.2f}%;height:{rh:.2f}%;padding:2px;">'
                   f'<div style="width:100%;height:100%;background:{hb};color:{hf};'
                   f'border-radius:8px;padding:7px 8px;overflow:hidden;">'
-                  f'<div style="font-size:{12 if big else 10}px;font-weight:800;">{e(h["sym"])}</div>'
+                  f'<div style="font-size:{12 if big else 10}px;font-weight:800;">'
+                  f'{e(h["sym"]) if named else ""}</div>'
                   + (f'<div style="font-size:10px;opacity:.85;margin-top:2px;">'
                      f'{h["w"]:.2f}% · {h["score"]:.0f}</div>' if big else "")
                   + "</div></div>")

diff --git a/README.md b/README.md
@@ -18,10 +18,10 @@ in one of four states: **worth reviewing / conditional / on hold / low priority*
 > a recommendation to buy or sell any security.
 
 <p align="center">
-  <img src="docs/images/scan-scores.png" width="52%" alt="Scan output for one ETF: a one-month score of 49.5, then each of the seven indicators with its own colour, score and weight">
+  <img src="docs/images/scan-scores.png" width="100%" alt="Scan output for one ETF: a one-month score of 49.5, then each of the seven indicators with its own colour, score and weight">
 </p>
 <p align="center">
-  <img src="docs/images/scan-holdings.png" width="52%" alt="The same fund's top holdings as a treemap, each tile sized by weight and coloured by that holding's own score, with a legend">
+  <img src="docs/images/scan-holdings.png" width="100%" alt="The same fund's top holdings as a treemap, each tile sized by weight and coloured by that holding's own score, with a legend">
 </p>
 <p align="center">
   <sub><b>The default output.</b> Every indicator carries its own score, weight and colour;
@@ -30,7 +30,7 @@ in one of four states: **worth reviewing / conditional / on hold / low priority*
 </p>
 
 <p align="center">
-  <img src="docs/images/holdings-heatmap.png" width="52%" alt="Constituent score map from the full pipeline: a treemap where each tile is a holding, sized by portfolio weight and coloured by its financial grade">
+  <img src="docs/images/holdings-heatmap.png" width="100%" alt="Constituent score map from the full pipeline: a treemap where each tile is a holding, sized by portfolio weight and coloured by its financial grade">
 </p>
 <p align="center">
   <sub><b>What the full pipeline adds.</b> The same map, coloured by a graded financial
